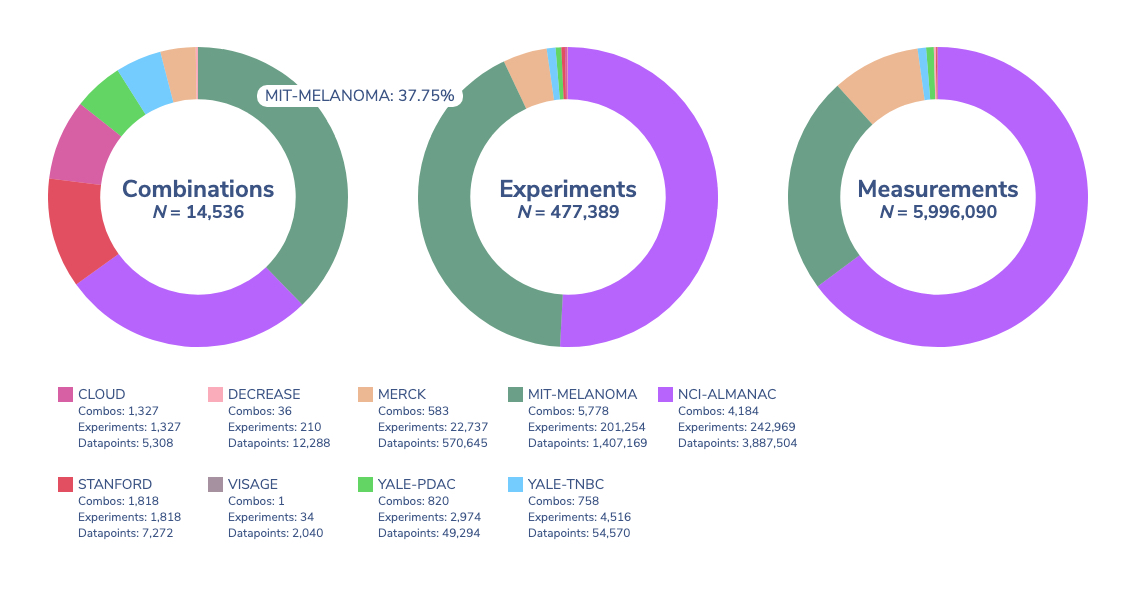
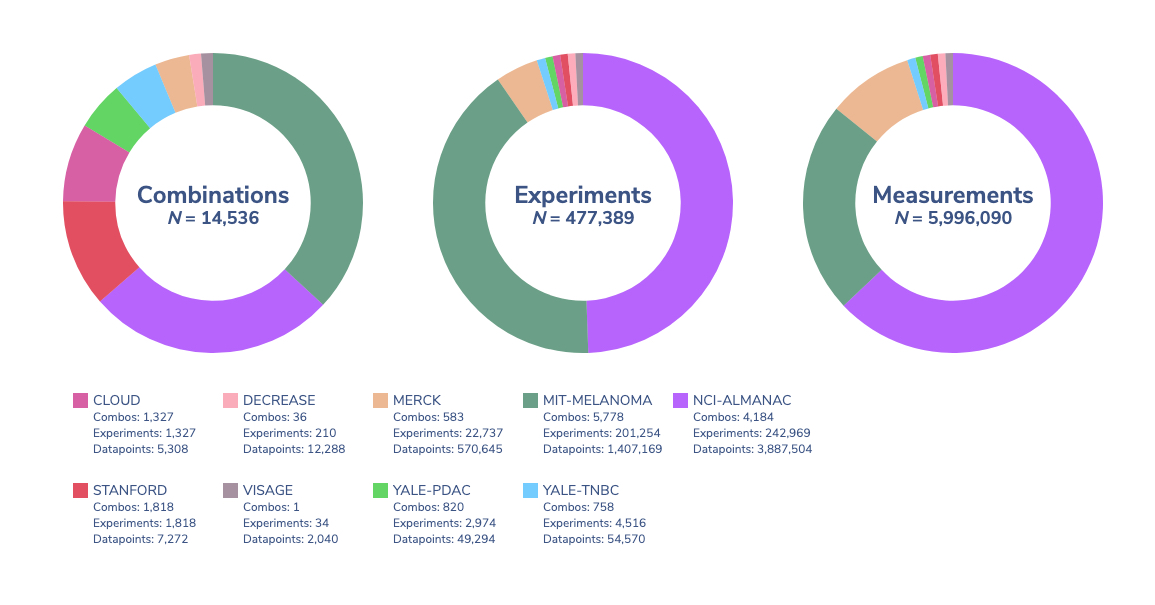
exaggerate donut plots + change doc

diff --git a/client/src/components/Datasets.js b/client/src/components/Datasets.js
@@ -70,12 +70,17 @@ class Datasets extends Component {
     data.forEach((val) => {
       const temp = {};
       temp.name = val.name;
+      // also parsing if number less than threshold
+      // so visible on the donut plot
       if (keyName === 'Combinations') {
-        temp.num = val.nCombos;
+        temp.numLabel = val.nCombos;
+        temp.num = (val.nCombos < 200 ? 200 : val.nCombos);
       } else if (keyName === 'Experiments') {
-        temp.num = val.nExperiments;
+        temp.numLabel = val.nExperiments;
+        temp.num = (val.nExperiments < 4000 ? 4000 : val.nExperiments);
       } else if (keyName === 'Measurements') {
-        temp.num = val.nDatapoints;
+        temp.numLabel = val.nDatapoints;
+        temp.num = (val.nDatapoints < 50000 ? 50000 : val.nDatapoints);
       }
       result.push(temp);
     });

diff --git a/client/src/components/Plots/DonutPlot.js b/client/src/components/Plots/DonutPlot.js
@@ -182,7 +182,11 @@ class DonutPlot extends React.Component {
 
 
     arcs.on('mouseover', (d) => {
-      tooltip.text(`${d.data.name}: ${d3.format('.2f')((d.data.num / sum) * 100)}%`).style('visibility', 'visible');
+      if (['Combinations', 'Measurements', 'Experiments'].includes(keyName)) {
+        tooltip.text(`${d.data.name}: ${d3.format('.2f')((d.data.numLabel / sum) * 100)}%`).style('visibility', 'visible');
+      } else {
+        tooltip.text(`${d.data.name}: ${d3.format('.2f')((d.data.num / sum) * 100)}%`).style('visibility', 'visible');
+      }
     })
       .on('mousemove', () => {
         tooltip.style('top', `${d3.event.pageY - 10}px`).style('left', `${d3.event.pageX + 10}px`);
